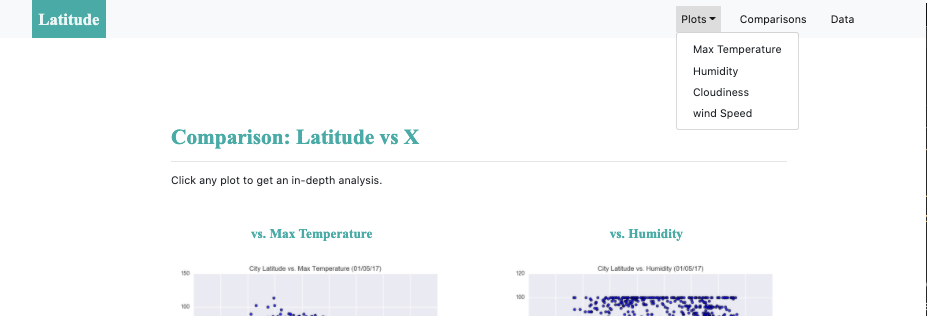
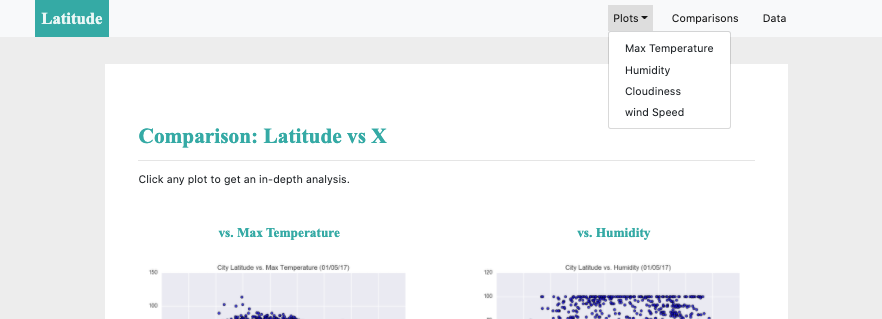
update images

diff --git a/WebVisualizations/style.css b/WebVisualizations/style.css
@@ -117,6 +117,3 @@ padding:8px;
     margin: 0 auto;
 }
 
-body{
-  background-color: rgb(255, 255, 255);
-}
